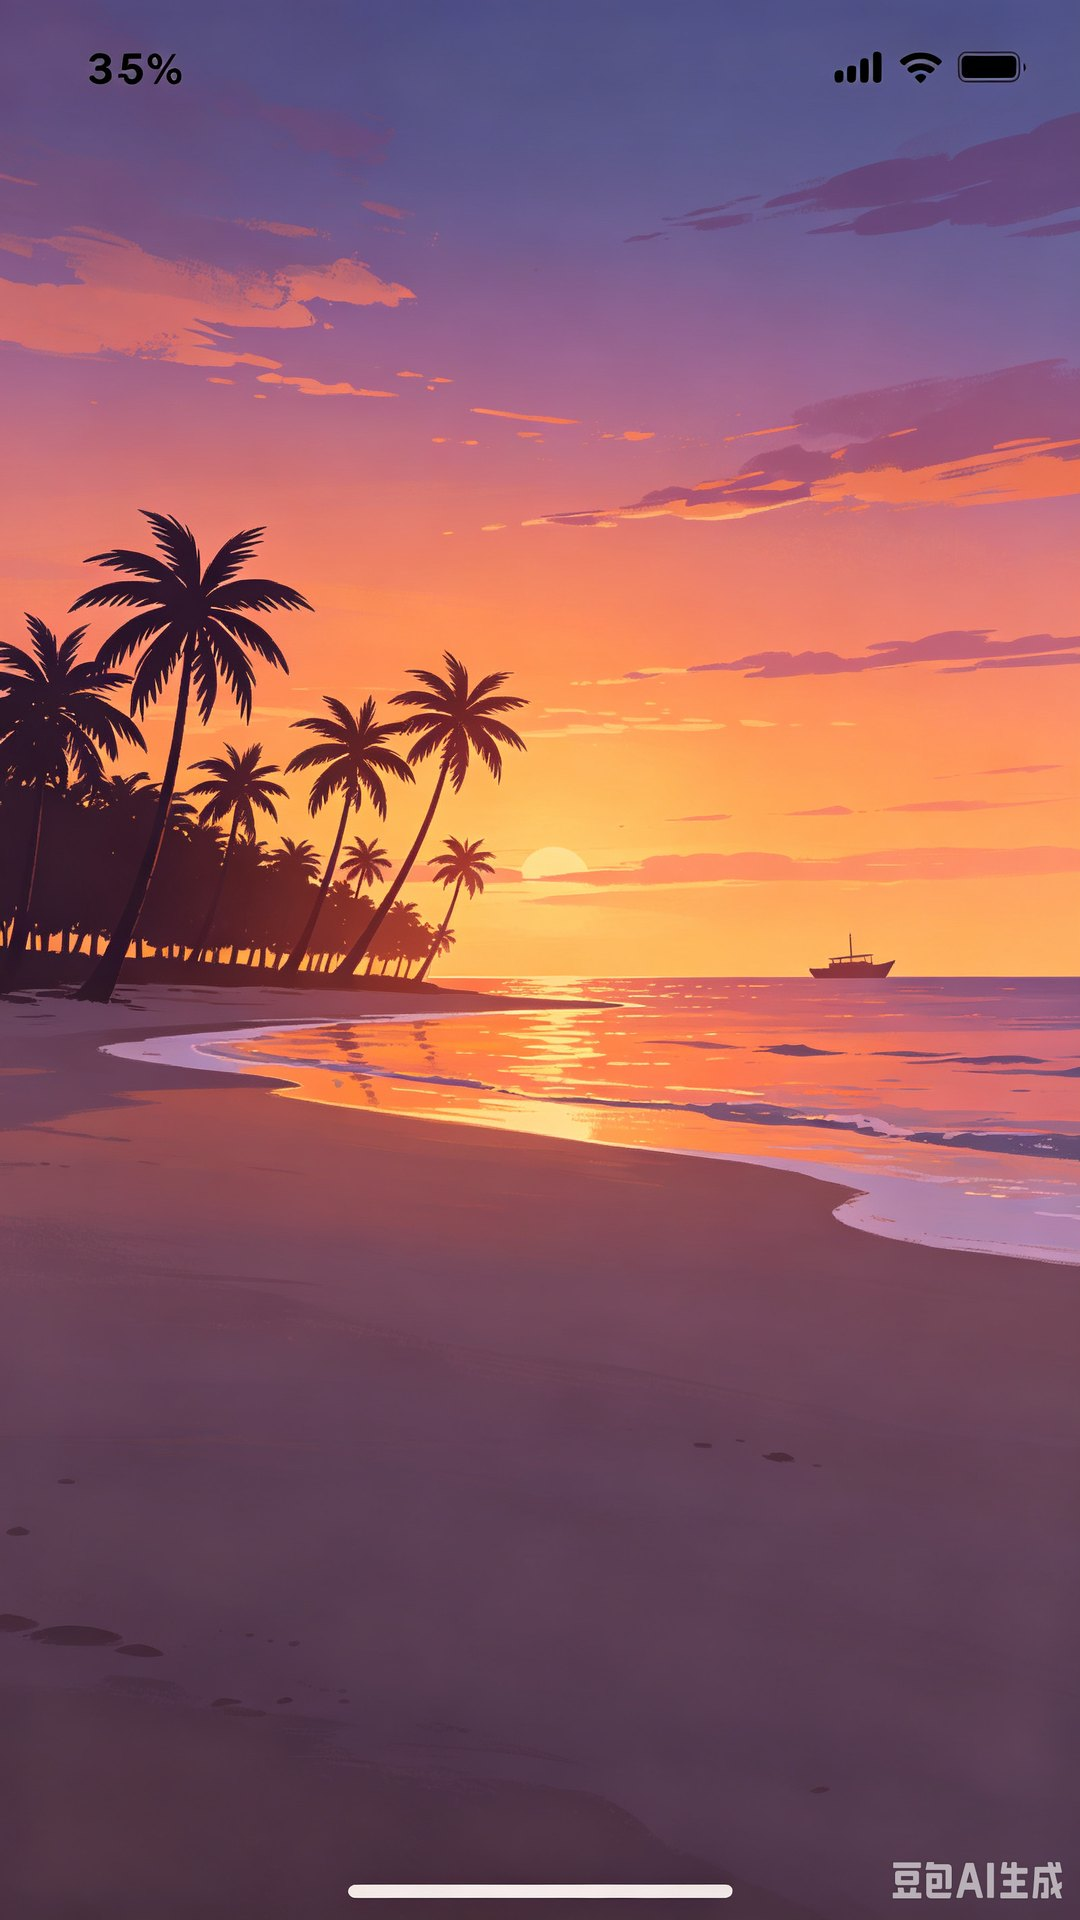
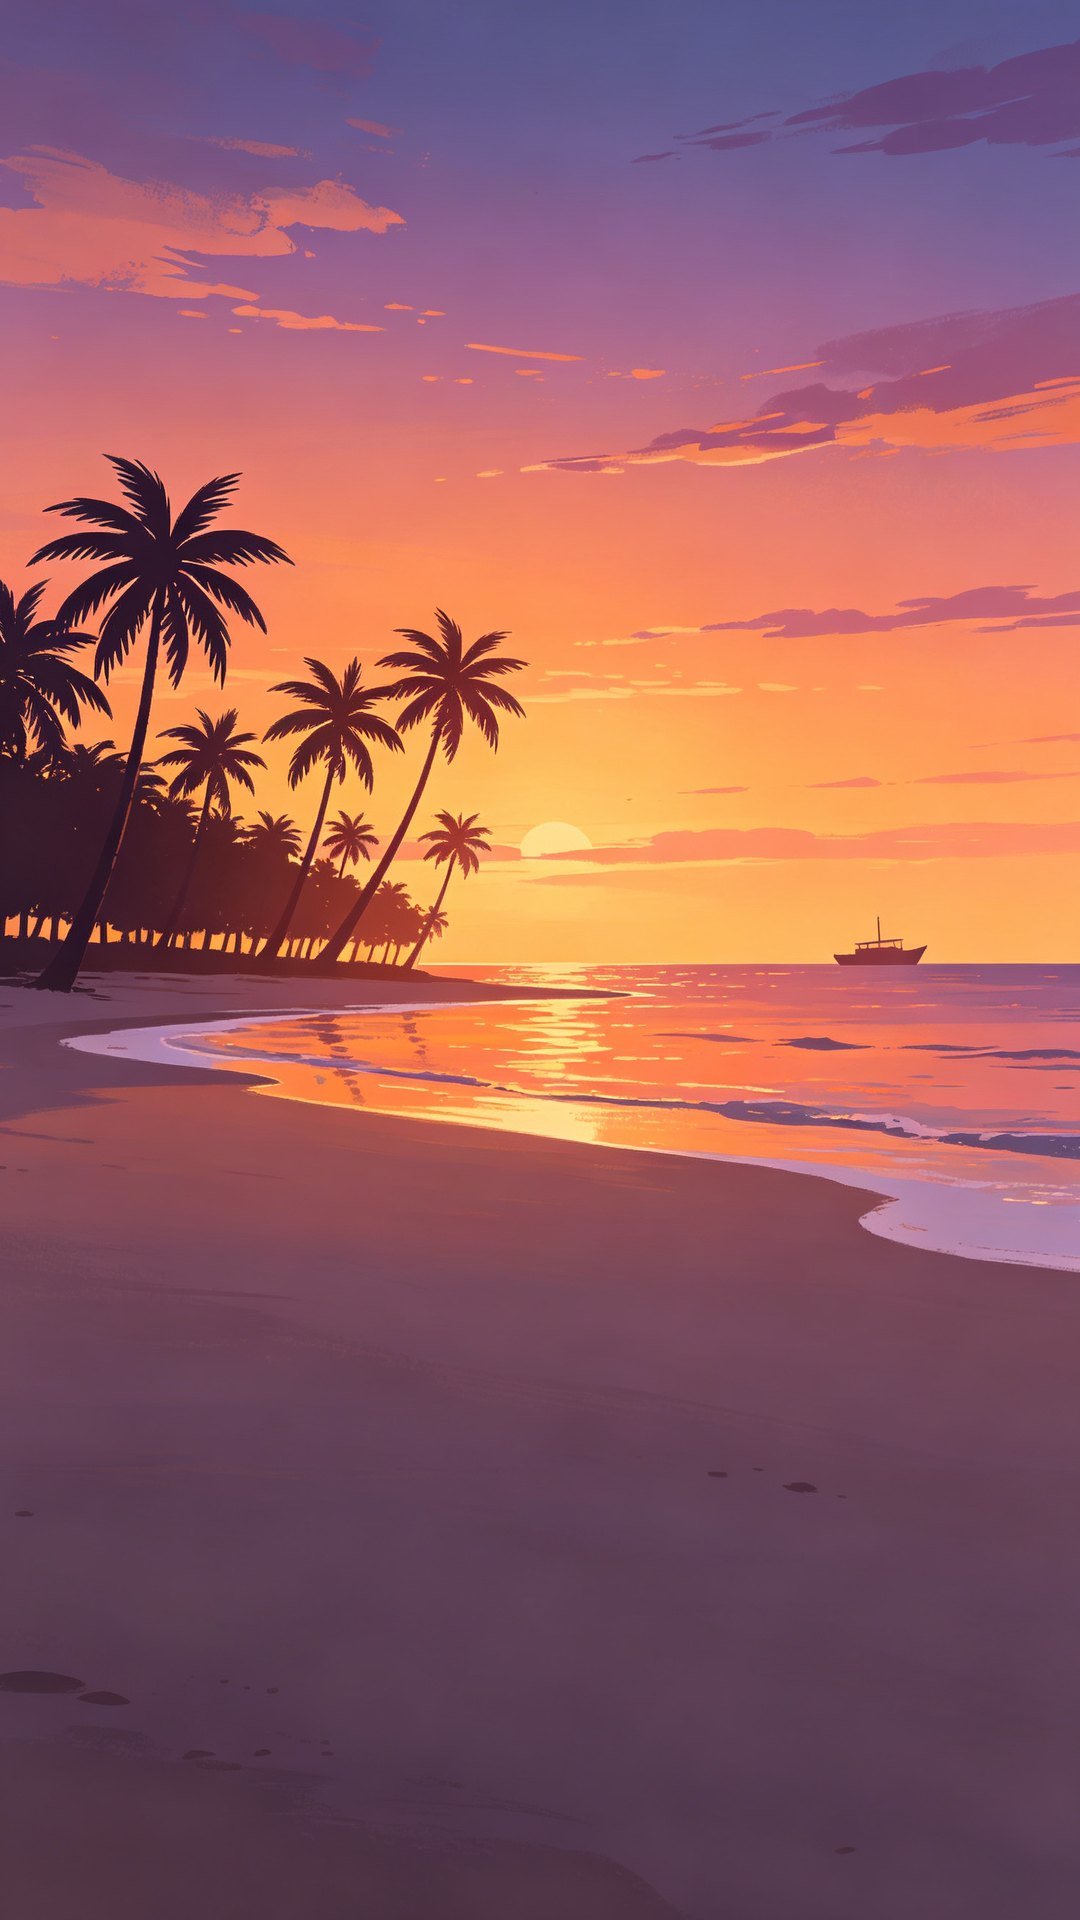
chore: 裁掉背景图的水印与手机状态栏（切片 12 补充）
4 张交付背景右下角都带豆包AI生成水印，palm-coast-dusk 还是手机截图（顶部状态栏 + 底部 home 指示条）。按用户指示从 e0ed041 原图裁切：统一裁下 98px、左右各 26px，palm-coast-dusk 另裁上 138px、左右各 65px；重压回同一档位（单张 162~342 KB，合计 1132 KB），并重出上线包。

diff --git a/.scratch/qingbuliang-master/issues/12-build-and-device-acceptance.md b/.scratch/qingbuliang-master/issues/12-build-and-device-acceptance.md
@@ -59,7 +59,7 @@
    实测（改动后，五视口）：360×740 / 414×896 上格子与文案都落在可见区内（余量 20~37 px）；1280×800 与 768×1024 上仍是设计值（格子 160、文案 642、不缩字号）。
    未动的一处：碗区拖动高亮框 600 宽，在 591 可见宽下左右各出屏约 4.5 px——它比判定区小一圈、又只在下拉时出现，判定区本就比它大，故保留原样；`TrayArea` / `BowlArea` / `StartPage` 的 720 宽面板是**全屏出血的底衬**，出屏是有意为之。
 3. **`HudView` 销毁期崩溃（已修）**：编辑器日志里翻到预览停止时 `HudView.stopPulse` 报 `Cannot read properties of null (reading 'setScale')`——组件 `onDestroy` 时子节点已被先一步回收，`label.node` 已是 null。加了一句存在性校验（`node?.isValid`）。产物复测：最后一局归零后立刻刷新页面（此时脉冲仍在跑），控制台**零异常**。
-4. **背景素材带水印（待用户决定）**：4 张背景图的右下角都有 **"豆包AI生成"** 水印；`palm-coast-dusk.jpg` 还不只是水印——它是一张**手机截图**，顶部带着状态栏（35% 电量、信号、Wi-Fi、电池图标），底部还有 home 指示条。玩游戏时：单局页底部被配料盘盖住看不见，但**开始页与结算页压暗后两者都清晰可见**。
+4. **背景素材带水印（已按用户指示裁掉）**：4 张背景图的右下角都有 **"豆包AI生成"** 水印；`palm-coast-dusk.jpg` 还不只是水印——它是一张**手机截图**，顶部带着状态栏（35% 电量、信号、Wi-Fi、电池图标），底部还有 home 指示条。玩游戏时：单局页底部被配料盘盖住看不见，但**开始页与结算页压暗后两者都清晰可见**。已从 `e0ed041` 原图裁切：统一裁下 98 px、左右各 26 px，`palm-coast-dusk` 另裁上 138 px、左右各 65 px。
    这不是代码问题，是素材交付问题（`CREDITS.md` 记的是"按出图需求产出、由用户交付"）。处置建议：**重出**是首选（去掉水印、不要用手机截图当底图）；退而求其次我可以裁掉水印带（底部约 5% 高度，构图基本无损；`palm-coast-dusk` 还要连顶部约 3% 的状态栏一起裁，代价是图源比例从 9:16 略微变宽松，拉伸后肉眼几乎看不出）。**等用户拍板再动**——改的是交付来的美术资源，不擅自改。
 5. **favicon 404（未处理）**：构建模板的 `index.html` 没有图标链接，浏览器默认请求 `/favicon.ico` → 控制台一条 404 网络错误。影响仅是控制台噪音；要修得加自定义构建模板，不属本切片。
 6. **编辑器噪声**：重开编辑器会把 `settings/v2/packages/information.json` 里 splash 插件的表单状态改掉（`enable` 翻转 + 加 `sid=`），与本项目无关，已丢弃。
@@ -67,7 +67,7 @@
 **待人工确认**
 
 - **真机走查**：本切片用无头 Chrome 的移动视口 + 触点模拟覆盖了第 10 条，但那不是真机。请把 `build/web-mobile` 托到局域网后用手机浏览器过一遍十条清单（重点：iPhone Safari 的工具栏收起时可视区更窄、以及真实手指拖拽的跟手手感）。
-- **背景水印**：重出还是裁剪，等用户决定（见发现 4）。
+- **背景水印**：已按用户指示处理完（见发现 4）——从 `e0ed041` 原图裁掉水印带与状态栏，重压回同一档位并重出上线包。
 
 **方法说明**：产物实测用的是一次性脚本（本地 Chrome + CDP：`Emulation.setDeviceMetricsOverride` 定视口、`Input.dispatchTouchEvent` 发触摸、`Runtime.evaluate` 读引擎节点几何与标签、`Page.captureScreenshot` 截图），放在 `temp/`（不入库），跑完已删。它不替代真机，但把"无横向滚动 / 元素不被裁切 / 触摸生效"从"只能人眼看"变成可复现的数字。
 

diff --git a/CREDITS.md b/CREDITS.md
@@ -13,17 +13,17 @@
 | `assets/resources/art/backgrounds/palm-coast-dusk.jpg` | 椰林海岸黄昏 | 同上 |
 | `assets/resources/art/backgrounds/li-brocade-pattern.png` | 黎锦纹样底纹 | 同上 |
 
-**待处理的素材问题（12 号切片上线验收时发现）**：4 张图右下角都带 **"豆包AI生成"** 水印；`palm-coast-dusk.jpg` 还不只是水印——它是一张手机截图，顶部带着手机状态栏（电量百分比 / 信号 / Wi-Fi / 电池图标），底部还有 home 指示条。单局页底部被配料盘盖住看不见，但**开始页与结算页压暗后两者都清晰可见**。处置待定：首选重出（去掉水印、不要拿手机截图当底图）；退一步可由脚本裁掉水印带（底部约 5%，`palm-coast-dusk` 还要连顶部约 3% 的状态栏一起裁）。
+**已处理的素材问题（12 号切片验收时发现并裁掉）**：4 张图右下角都带 **"豆包AI生成"** 水印；`palm-coast-dusk.jpg` 还不只是水印——它是一张手机截图，顶部带着手机状态栏（电量百分比 / 信号 / Wi-Fi / 电池图标），底部还有 home 指示条。单局页底部被配料盘盖住看不见，但**开始页与结算页压暗后两者都清晰可见**。处置方式：**从 `e0ed041` 的原图裁切**（原图未动，要重出可整张替换）。四张统一按 9:16 收边：裁下 98 px、左右各 26 px；`palm-coast-dusk` 另裁上 138 px、左右各 65 px。
 
 压缩档位（约束：单张 ≤400 KB、合计 ≤1.6 MB）：
 
 | 文件 | 档位 | 体积 | 保真度（PSNR，相对缩放后原图） |
 | --- | --- | --- | --- |
-| `qilou-street-night.jpg` | 1080×1920 JPEG q80 | 329 KB | 34.1 dB |
-| `qingbuliang-stall-night.jpg` | 1080×1920 JPEG q86 | 293 KB | 37.9 dB |
-| `palm-coast-dusk.jpg` | 1080×1920 JPEG q86 | 159 KB | 39.3 dB |
-| `li-brocade-pattern.png` | 540×960 PNG-128 调色板 | 339 KB | 33.2 dB |
-| **合计** | | **1121 KB** | |
+| `qilou-street-night.jpg` | 1080×1920 JPEG q80 | 334 KB | 34.2 dB |
+| `qingbuliang-stall-night.jpg` | 1080×1920 JPEG q86 | 295 KB | 37.9 dB |
+| `palm-coast-dusk.jpg` | 1080×1920 JPEG q86 | 162 KB | 39.5 dB |
+| `li-brocade-pattern.png` | 540×960 PNG-128 调色板 | 342 KB | 33.0 dB |
+| **合计** | | **1132 KB** | |
 
 黎锦纹样是满幅几何图案：JPEG 在细线上振铃明显且压不进 400 KB，改用减色 PNG（线条锐利、无振铃），代价是分辨率降到 540×960。
 
